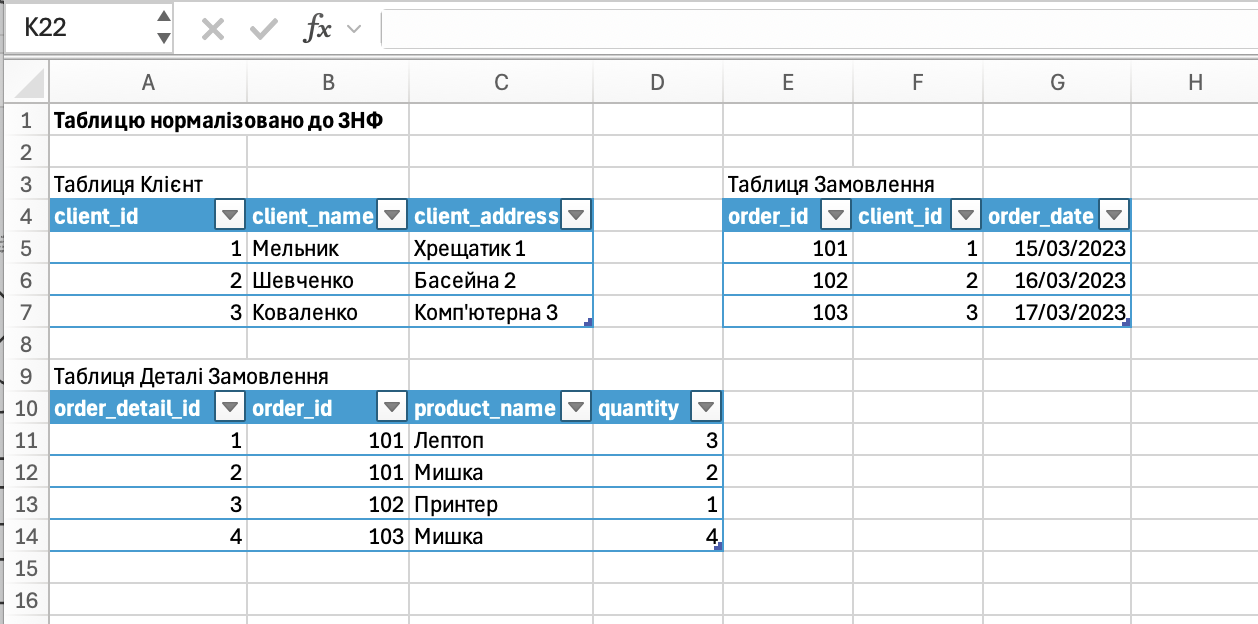
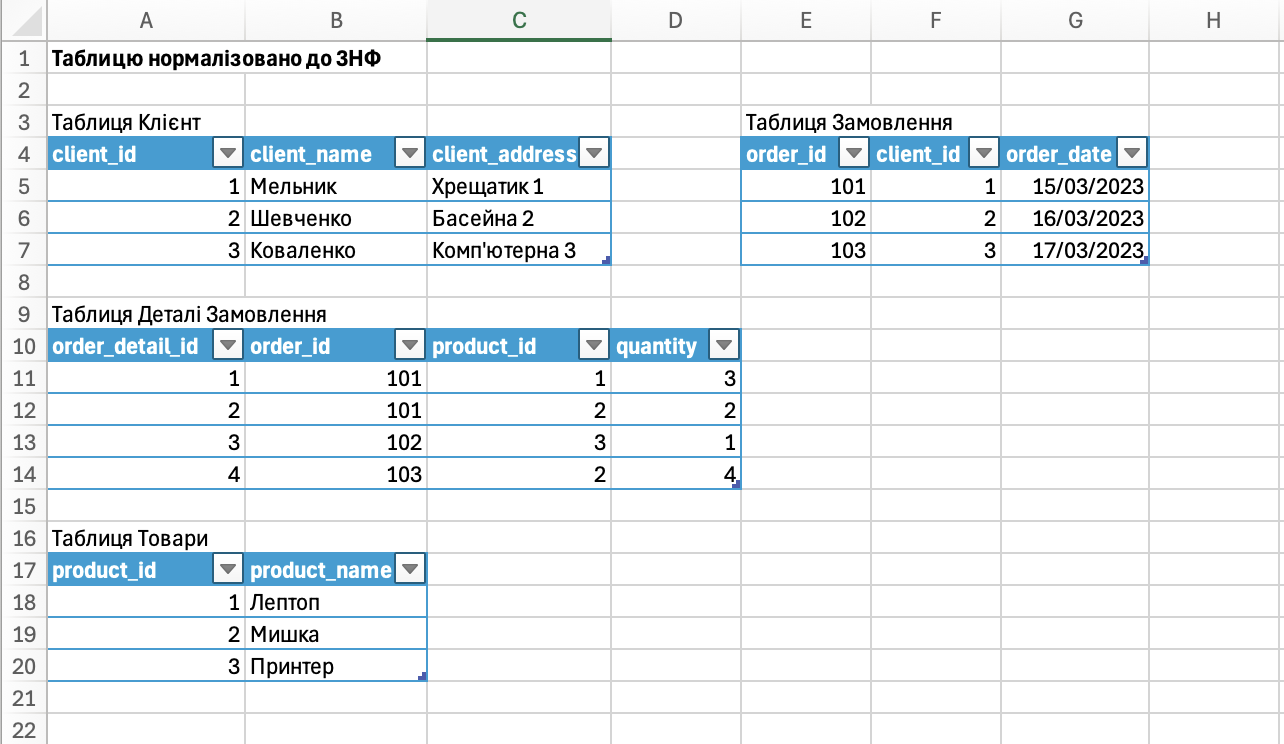
add products table and ordernumber field, update screenshots and readme

Changed region(s): [[0.0, 0.0, 1.0, 1.0]]

diff --git a/README.md b/README.md
@@ -7,9 +7,9 @@
 | Файл | Опис |
 |---|---|
 | normalized_table.xlsx | Таблиці на кожному етапі нормалізації (1НФ, 2НФ, 3НФ) |
-| create_tables.sql | Створення БД hw02 і таблиць clients, orders, order_details |
+| create_tables.sql | Створення БД hw02 і таблиць clients, products, orders, order_details |
 | insert_values.sql | Заповнення таблиць даними |
-| select.sql | Перевірочний запит SELECT до таблиці clients |
+| select.sql | Перевірочні запити: SELECT до таблиці clients і JOIN, що збирає вихідну таблицю |
 | screenshots | Скріншоти до кожного пункту завдання |
 
 ## Етапи Нормалізації
@@ -18,26 +18,34 @@
 |---|---|---|
 | 1НФ | Товари з однієї комірки рознесено по окремих рядках. Усі значення атомарні. | <img src="screenshots/p1_1nf.png" width="450"> |
 | 2НФ | Часткові залежності усунуто. Дані розділено на Замовлення та Деталі замовлення. | <img src="screenshots/p2_2nf.png" width="450"> |
-| 3НФ | Транзитивну залежність order_id -> клієнт -> адреса усунуто, клієнтів винесено в окрему таблицю. | <img src="screenshots/p3_3nf.png" width="450"> |
+| 3НФ | Транзитивну залежність order_id -> клієнт -> адреса усунуто, клієнтів винесено в окрему таблицю. Назви товарів винесено в окрему таблицю Товари. | <img src="screenshots/p3_3nf.png" width="450"> |
 
 ## ER Діаграма
 
 ![ER Діаграма](screenshots/p4_diagram.png)
 
-Як можемо бачити з даної діаграми, clients 1 : N orders - клієнт може мати багато замовлень та orders 1 : N order_details - замовлення містить один або більше товарів.
+Зв'язки між таблицями:
+- clients 1 : N orders - клієнт може мати багато замовлень;
+- orders 1 : N order_details - замовлення містить один або більше товарів;
+- products 1 : N order_details - один товар може входити в багато замовлень.
+
+## Зміни після ревʼю
+
+- Назви товарів винесено в окрему таблицю `products`. В `order_details` тепер зберігається `product_id` (зовнішній ключ) замість назви, тож зв'язок працює через індекс.
+- У таблицю `orders` додано поле `order_number` (VARCHAR, UNIQUE) для номера замовлення в довільному форматі. `order_id` лишився технічним ключем тільки для зв'язків.
 
 ## Запуск
 
 Запустити скрипти в MySQL у такому порядку:
-1. `create_tables.sql`
+1. `create_tables.sql` (перестворює БД hw02 з нуля)
 2. `insert_values.sql`
 
 ## Схема БД і Тестування
 
 ![Схема](screenshots/p5_schema.png)
 
-У базі hw02 було створено три таблиці - clients, orders, order_details.
+У базі hw02 було створено чотири таблиці - clients, products, orders, order_details.
 
-SELECT * FROM clients поверне 3 рядки без дублікатів, як і очікується. Для цього можна опційно запустити `select.sql`.
+SELECT * FROM clients поверне 3 рядки без дублікатів, як і очікується. JOIN усіх чотирьох таблиць поверне 4 рядки, ідентичні вихідній таблиці. Для перевірки можна запустити `select.sql`.
 
 ![Результат](screenshots/p6_select.png)
